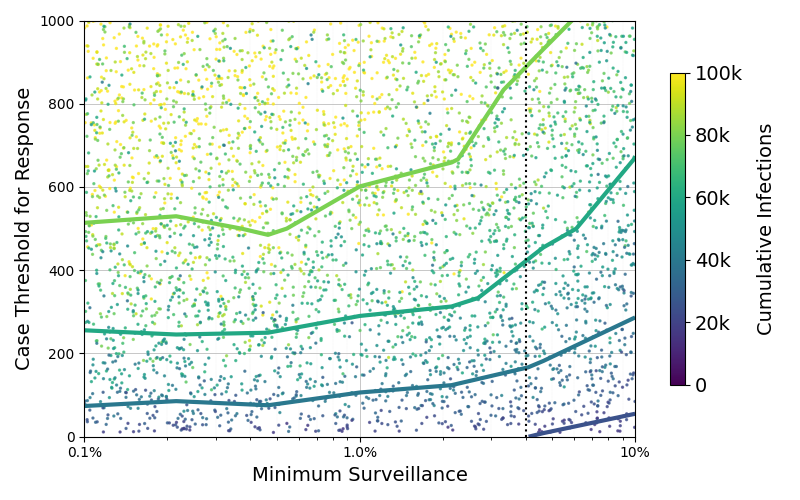
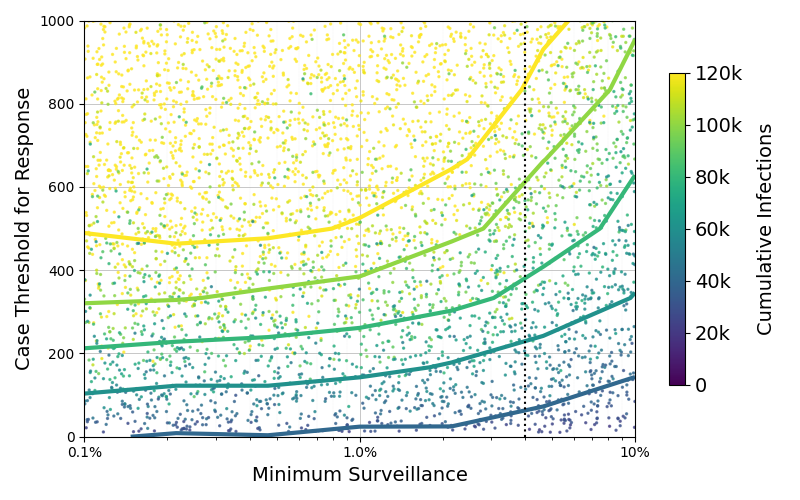
Update contours

diff --git a/model_measles_gha01/figure_response/make_fig_averted.py b/model_measles_gha01/figure_response/make_fig_averted.py
@@ -25,7 +25,7 @@ DIRNAMES = ['experiment_gha_test']
 
 def make_fig():
 
-    CCUT = -4e3
+    CCUT = -3300
 
     for dirname in DIRNAMES:
 
@@ -43,8 +43,7 @@ def make_fig():
 
         tvals = dbrick.pop('tstamps')
 
-        inf_data = np.zeros((nsims, len(tvals)))
-        scale_vec = np.zeros((nsims, 1))-1
+        inf_data = np.zeros((nsims, len(tvals))) - 1
         cal_vec = np.zeros(nsims)
 
         for sim_idx_str in dbrick:
@@ -54,10 +53,9 @@ def make_fig():
             sim_obj = dbrick[sim_idx_str]
 
             inf_data[sim_idx, :] = np.array(sim_obj['timeseries'])
-            scale_vec[sim_idx, 0] = sim_obj['rep_rate']
             cal_vec[sim_idx] = sim_obj['cal_val']
 
-        gidx = (scale_vec[:, 0] >= 0)
+        gidx = (inf_data[:, 0] >= 0)
         gidx = gidx & (cal_vec > CCUT)
 
         ntval = np.array(tvals)/365.0 + BASE_YEAR
@@ -115,11 +113,11 @@ def make_fig():
 
         plt.contour(np.power(10.0, xvec[:-1, :-1]+dxval/2),
                     yvec[:-1, :-1]+dyval/2, zmat,
-                    levels=[25e3, 40e3, 60e3, 80e3],
-                    linewidths=3, vmin=0, vmax=100e3)
+                    levels=[25e3, 40e3, 60e3, 80e3, 100e3, 120e3],
+                    linewidths=3, vmin=0, vmax=120e3)
 
         axs01.scatter(np.power(10.0, xval[gdx2]), yval[gdx2], c=cval[gdx2],
-                      s=2, vmin=0, vmax=100e3, alpha=0.7)
+                      s=2, vmin=0, vmax=120e3, alpha=0.7)
 
         ticloc = [0.001, 0.01, 0.1]
         ticlab = ['0.1%', '1.0%', '10%']
@@ -132,8 +130,8 @@ def make_fig():
 
         axs01.plot([0.04, 0.04], [0, 1000], 'k:')
 
-        ticloc = [0.0, 0.2, 0.4, 0.6, 0.8, 1.0]
-        ticlab = ['0', '20k', '40k', '60k', '80k', '100k']
+        ticloc = [0, 1/6, 2/6, 3/6, 4/6, 5/6, 1]
+        ticlab = ['0', '20k', '40k', '60k', '80k', '100k', '120k']
 
         cbar_handle.set_ticks(ticks=ticloc)
         cbar_handle.set_ticklabels(ticlab)
